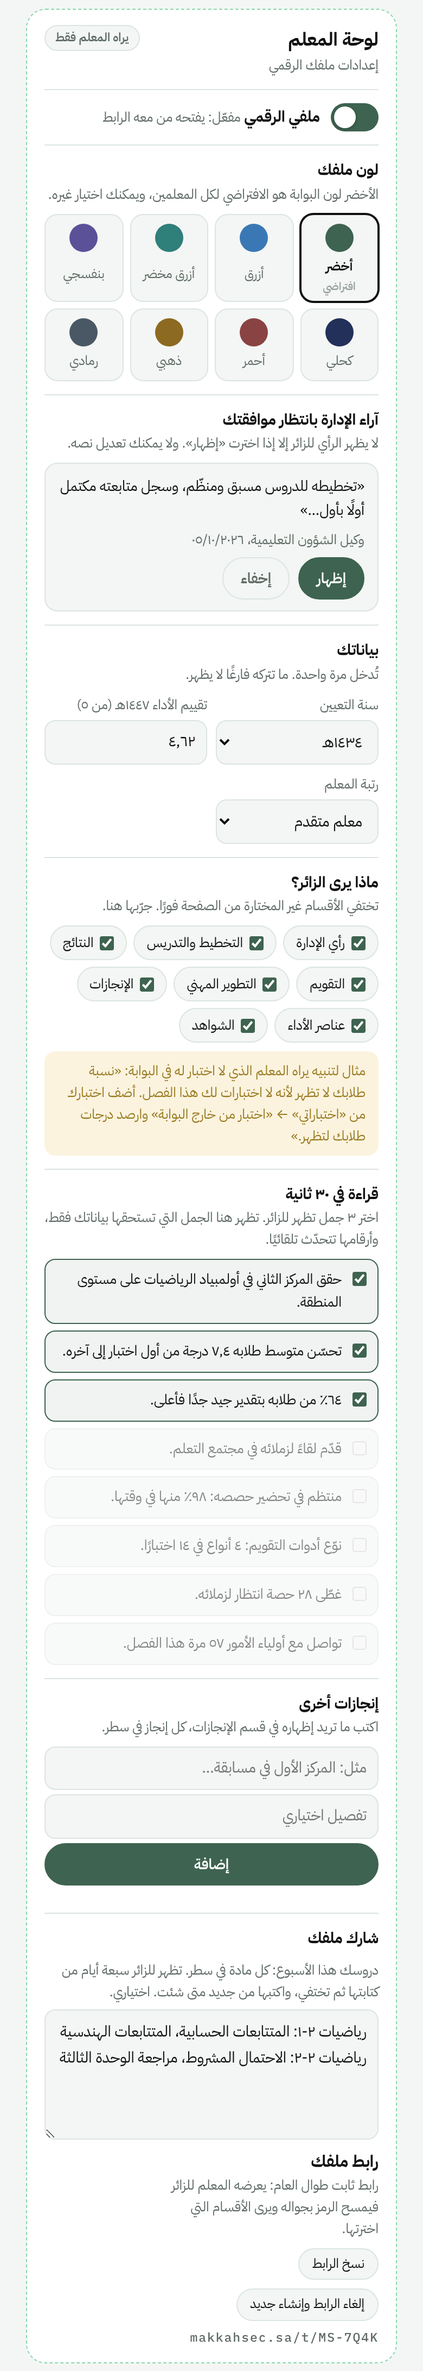
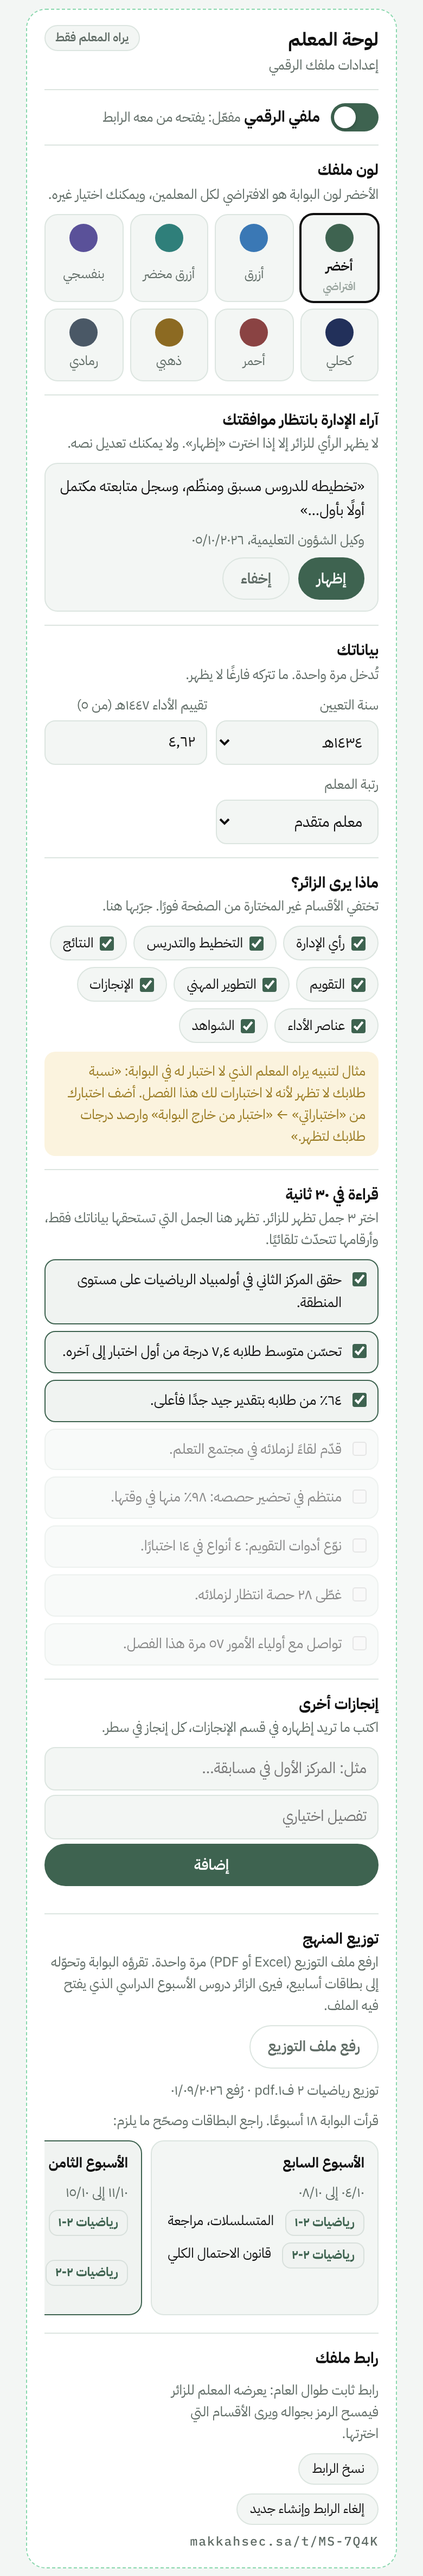
ملف المعلم الرقمي: توزيع المنهج بدل كتابة دروس الأسبوع
- يرفع المعلم ملف التوزيع مرة، وتحوّله البوابة إلى بطاقات أسابيع يراجعها.
- يرى الزائر بطاقات دروس الأسبوع الدراسي الذي يفتح فيه الملف.
- إصلاح فواصل بجوار الأرقام، وتسمية ١٠٠٪ في مخطط التحضير.

Claude-Session: https://claude.ai/code/session_01QzqWfYFyUodUKxUMNwYvZ2

diff --git a/docs/teacher-digital-file/prototype.html b/docs/teacher-digital-file/prototype.html
@@ -413,6 +413,20 @@ section.sec { display: grid; gap: 12px; scroll-margin-top: 64px; }
 .lesson { display: grid; grid-template-columns: auto minmax(0,1fr); gap: 10px; align-items: start; }
 .lesson .sb { font-size: 11.5px; font-weight: 700; color: var(--deep); background: var(--tint); border: 1px solid var(--mint-light); border-radius: 8px; padding: 2px 8px; white-space: nowrap; }
 .lesson p { font-size: 14px; line-height: 1.7; }
+.upl { display: flex; align-items: center; gap: 10px; flex-wrap: wrap; cursor: pointer; }
+.wkcards { display: flex; gap: 8px; overflow-x: auto; padding-bottom: 4px; scroll-snap-type: x mandatory; }
+.wkc { flex: none; width: 210px; scroll-snap-align: start; border: 1px solid var(--line); border-radius: 12px; background: var(--bg); padding: 10px 12px; display: grid; gap: 6px; align-content: start; }
+.wkc.now { border-color: var(--deep); background: var(--tint); }
+.wkc h4 { margin: 0; font-size: 13px; display: flex; justify-content: space-between; gap: 6px; }
+.wkc h4 span { font-weight: 600; font-size: 11px; color: var(--deep); }
+.wkc .lesson { grid-template-columns: minmax(0,1fr); gap: 3px; }
+.wkc .lesson .sb { justify-self: start; }
+.wkc .lesson p { font-size: 12.5px; line-height: 1.6; }
+.lcards { display: grid; grid-template-columns: repeat(2, minmax(0, 1fr)); gap: 8px; }
+.lcard { border: 1px solid var(--mint-light); background: var(--tint); border-radius: 12px; padding: 10px 12px; display: grid; gap: 4px; align-content: start; }
+.lcard .sb { justify-self: start; font-size: 11.5px; font-weight: 700; color: var(--surface); background: var(--deep); border-radius: 8px; padding: 2px 8px; margin-bottom: 2px; }
+.lcard p { font-size: 13.5px; line-height: 1.55; }
+.lcard p::before { content: "• "; color: var(--deep); }
 .wk-in { display: grid; gap: 6px; }
 .wk-in label { font-size: 12.5px; color: var(--muted); }
 .wk-in textarea { font: inherit; font-size: 14px; color: var(--ink); background: var(--bg); border: 1px solid var(--line); border-radius: 10px; padding: 8px 10px; resize: vertical; min-height: 120px; line-height: 1.7; }
@@ -550,8 +564,8 @@ section.sec { display: grid; gap: 12px; scroll-margin-top: 64px; }
   <section class="sec anim" id="teach">
     <div class="sec-h"><h2>التخطيط والتدريس</h2><p>التحضير والمتابعة</p></div>
     <div class="card week" id="weekCard">
-      <div class="card-h"><div><h3>دروس هذا الأسبوع</h3><p class="sub num">من ١٥/١٠ إلى ٢١/١٠/٢٠٢٦ · كتبها المعلم وتظهر سبعة أيام</p></div><span class="src up">يكتبها المعلم</span></div>
-      <div class="lessons" id="weekLessons"></div>
+      <div class="card-h"><div><h3>دروس هذا الأسبوع</h3><p class="sub num" id="weekSub"></p></div><span class="src mix">من توزيع المنهج</span></div>
+      <div class="lcards" id="weekLessons"></div>
     </div>
     <div class="grid2">
       <div class="card">
@@ -559,17 +573,17 @@ section.sec { display: grid; gap: 12px; scroll-margin-top: 64px; }
         <svg class="chart" viewBox="0 0 320 110" role="img" aria-label="نسبة التحضير في وقته أسبوعيًا بين 94 و100 بالمئة">
           <line class="axis" x1="10" y1="90" x2="310" y2="90"/>
           <line class="axis" x1="10" y1="20" x2="310" y2="20" stroke-dasharray="3 4"/>
-          <text x="312" y="24" text-anchor="end">١٠٠٪</text>
+          <text x="290" y="14" text-anchor="middle">١٠٠٪</text>
           <path d="M20 41 L60 34 L100 48 L140 27 L180 27 L220 34 L260 20 L300 20 L300 90 L20 90 Z" fill="var(--mint)" opacity=".22"/>
           <path d="M20 41 L60 34 L100 48 L140 27 L180 27 L220 34 L260 20 L300 20" fill="none" stroke="var(--deep)" stroke-width="2.5" stroke-linejoin="round"/>
           <circle cx="300" cy="20" r="4.5" fill="var(--deep)"/>
           <text x="20" y="106" text-anchor="middle">أ١</text><text x="300" y="106" text-anchor="middle">أ٨</text>
         </svg>
-        <p class="sub num">٤١٢ حصة · ٢٨ حصة انتظار · ٢ تأخر في التحضير</p>
+        <p class="sub num">٤١٢ حصة، و٢٨ حصة انتظار، و٢ تأخر في التحضير</p>
       </div>
       <div class="card">
         <div class="card-h"><div><h3>تحضير الدروس</h3><p class="sub">ملفات المعلم لكل وحدة</p></div><span class="src up">يرفعه المعلم</span></div>
-        <div class="tags"><span class="tag">الوحدة ١ · الدوال</span><span class="tag">الوحدة ٢ · المتتابعات</span><span class="tag">الوحدة ٣ · الاحتمالات</span><span class="tag">١٨ خطة درس</span></div>
+        <div class="tags"><span class="tag">الوحدة ١: الدوال</span><span class="tag">الوحدة ٢: المتتابعات</span><span class="tag">الوحدة ٣: الاحتمالات</span><span class="tag">١٨ خطة درس</span></div>
       </div>
       <div class="card">
         <div class="card-h"><div><h3>سجل المتابعة</h3><p class="sub">الواجبات والمشاركة والتطبيقات الصفية</p></div><span class="src auto">تلقائي</span></div>
@@ -745,15 +759,16 @@ section.sec { display: grid; gap: 12px; scroll-margin-top: 64px; }
     </div>
 
     <div class="pblk">
-      <div><h3 class="ph3">شارك ملفك</h3></div>
-      <div class="wk-in">
-        <label for="wkText">دروسك هذا الأسبوع: كل مادة في سطر. تظهر للزائر سبعة أيام من كتابتها ثم تختفي، واكتبها من جديد متى شئت. اختياري.</label>
-        <textarea id="wkText" rows="4">رياضيات ٢-١: المتتابعات الحسابية، المتتابعات الهندسية
-رياضيات ٢-٢: الاحتمال المشروط، مراجعة الوحدة الثالثة</textarea>
-      </div>
+      <div><h3 class="ph3">توزيع المنهج</h3><p class="sub">ارفع ملف التوزيع (Excel أو PDF) مرة واحدة. تقرؤه البوابة وتحوّله إلى بطاقات أسابيع، فيرى الزائر دروس الأسبوع الدراسي الذي يفتح فيه الملف.</p></div>
+      <label class="upl"><input type="file" accept=".xlsx,.xls,.pdf" hidden><span class="btn ghost">رفع ملف التوزيع</span><span class="sub num">رُفع ٠١/٠٩/٢٠٢٦: <bdi>distribution-math2.pdf</bdi></span></label>
+      <p class="sub num">قرأت البوابة ١٨ أسبوعًا. راجع البطاقات وصحّح ما يلزم:</p>
+      <div class="wkcards" id="wkCards"></div>
+    </div>
+
+    <div class="pblk">
+      <div><h3 class="ph3">رابط ملفك</h3></div>
   <div class="qr-card">
     <div>
-      <h3>رابط ملفك</h3>
       <p class="sub">رابط ثابت طوال العام: يعرضه المعلم للزائر فيمسح الرمز بجواله ويرى الأقسام التي اخترتها.</p>
       <button class="copy" id="copyBtn" type="button">نسخ الرابط</button> <button class="copy" type="button" id="newLink">إلغاء الرابط وإنشاء جديد</button>
       <p class="sub code" id="linkText" style="color:var(--muted);font-size:11.5px;margin-top:6px">makkahsec.sa/t/MS-7Q4K</p>
@@ -963,18 +978,29 @@ section.sec { display: grid; gap: 12px; scroll-margin-top: 64px; }
   });
   drawBrief();
 
-  /* دروس الأسبوع: تُكتب عند إنشاء الرابط وتظهر طوال صلاحيته */
-  var wkText = document.getElementById("wkText"), wkOut = document.getElementById("weekLessons"), wkCard = document.getElementById("weekCard");
+  /* توزيع المنهج: ترفعه المعلم مرة، وتعرض البوابة للزائر أسبوع يوم الفتح حسب الأسابيع الدراسية */
+  var DIST = [
+    { n: "السابع", from: "٠٤/١٠", to: "٠٨/١٠", l: [["رياضيات ٢-١", "المتسلسلات، مراجعة"], ["رياضيات ٢-٢", "قانون الاحتمال الكلي"]] },
+    { n: "الثامن", from: "١١/١٠", to: "١٥/١٠", now: true, l: [["رياضيات ٢-١", "المتتابعات الحسابية، المتتابعات الهندسية"], ["رياضيات ٢-٢", "الاحتمال المشروط، مراجعة الوحدة الثالثة"]] },
+    { n: "التاسع", from: "١٨/١٠", to: "٢٢/١٠", l: [["رياضيات ٢-١", "مجموع المتسلسلة الهندسية"], ["رياضيات ٢-٢", "اختبار الوحدة الثالثة"]] }
+  ];
   var esc = function (t) { return t.replace(/[&<>"]/g, function (c) { return { "&": "&amp;", "<": "&lt;", ">": "&gt;", '"': "&quot;" }[c]; }); };
-  var drawWeek = function () {
-    var lines = wkText.value.split("\n").map(function (l) { return l.trim(); }).filter(Boolean);
-    wkCard.hidden = !lines.length;
-    wkOut.innerHTML = lines.map(function (l) {
-      var i = l.indexOf(":"), sb = i > 0 ? l.slice(0, i) : "", body = i > 0 ? l.slice(i + 1).trim() : l;
-      return '<div class="lesson">' + (sb ? '<span class="sb">' + esc(sb) + '</span>' : '<span></span>') + '<p>' + esc(body) + '</p></div>';
-    }).join("");
+  var lessonsHTML = function (w) {
+    return w.l.map(function (x) { return '<div class="lesson"><span class="sb">' + esc(x[0]) + '</span><p>' + esc(x[1]) + '</p></div>'; }).join("");
   };
-  wkText.addEventListener("input", drawWeek); drawWeek();
+  var cur = DIST.filter(function (w) { return w.now; })[0];
+  document.getElementById("weekCard").hidden = !cur;
+  if (cur) {
+    document.getElementById("weekSub").textContent = "الأسبوع " + cur.n + "، من " + cur.from + " إلى " + cur.to + "/٢٠٢٦";
+    document.getElementById("weekLessons").innerHTML = cur.l.map(function (x) {
+      return '<div class="lcard"><span class="sb">' + esc(x[0]) + '</span>' + x[1].split("، ").map(function (t) { return '<p>' + esc(t) + '</p>'; }).join("") + '</div>';
+    }).join("");
+  }
+  document.getElementById("wkCards").innerHTML = DIST.map(function (w) {
+    return '<div class="wkc' + (w.now ? " now" : "") + '"><h4>الأسبوع ' + w.n + (w.now ? "<span>الحالي</span>" : "") + '</h4><p class="sub num">' + w.from + ' إلى ' + w.to + '</p>' + lessonsHTML(w) + '</div>';
+  }).join("");
+  var nowCard = document.querySelector("#wkCards .now");
+  if (nowCard) nowCard.scrollIntoView({ block: "nearest", inline: "center" });
 
   /* اختيار الأقسام الظاهرة للزائر */
   var PARTS = [["quote", "رأي الإدارة"], ["teach", "التخطيط والتدريس"], ["results", "النتائج"],

diff --git a/docs/teacher-digital-file/handoff.md b/docs/teacher-digital-file/handoff.md
@@ -88,7 +88,7 @@
 
 | البطاقة | المصدر |
 |---|---|
-| **دروس هذا الأسبوع** | يكتبها المعلم في لوحته (اختياري، كل مادة في سطر) وتظهر للزائر **سبعة أيام من كتابتها** ثم تختفي بصمت. لا خطة فصل ولا تذكير |
+| **دروس هذا الأسبوع** | من **توزيع المنهج**: يرفع المعلم ملف التوزيع مرة واحدة (Excel أو PDF، والمكتبتان `xlsx` و`pdfjs-dist` موجودتان)، فتقرؤه البوابة وتحوّله إلى بطاقات أسابيع يراجعها المعلم ويصحّحها. يرى الزائر بطاقات دروس **الأسبوع الدراسي الذي يفتح فيه الملف**، ويُحسب الأسبوع من بداية الفصل (`term_start`) مع مراعاة الإجازات. إن لم يُرفع توزيع أو لم يطابق أسبوعًا تختفي البطاقة. لا تذكير |
 | الحصص والتحضير | تلقائي |
 | تحضير الدروس | يرفعه المعلم |
 | سجل المتابعة | تلقائي، ويظهر فقط لمن يستخدم السجل الإلكتروني |
@@ -133,8 +133,9 @@
 5. **ماذا يرى الزائر؟** الأقسام، ومعها تنبيه «أضف اختبارًا» لمن لا اختبار له.
 6. **قراءة في ٣٠ ثانية:** اختيار ٣ جمل.
 7. **إنجازات أخرى:** إنجاز وتفصيل اختياري، يُضاف إلى قسم الإنجازات.
-8. **شارك ملفك:** دروسك هذا الأسبوع، ثم الرابط الثابت ورمز QR، و«نسخ الرابط»، و«إلغاء الرابط وإنشاء جديد».
-9. **من اطّلع على ملفك:** سجل الزوار.
+8. **توزيع المنهج:** رفع الملف، ثم بطاقات الأسابيع المقروءة للمراجعة (الأسبوع الحالي مميّز).
+9. **رابط ملفك:** الرابط الثابت ورمز QR، و«نسخ الرابط»، و«إلغاء الرابط وإنشاء جديد».
+10. **من اطّلع على ملفك:** سجل الزوار.
 - مكان اللوحة (صفحة مستقلة في البوابة أم أسفل التقرير): لم يُقرَّر بعد، والمقترح صفحة مستقلة فيها زر «معاينة كما يراها الزائر».
 
 ### مراحل التنفيذ المقترحة (بعد انتهاء النقاش وأمر المستخدم «ابدأ»)
